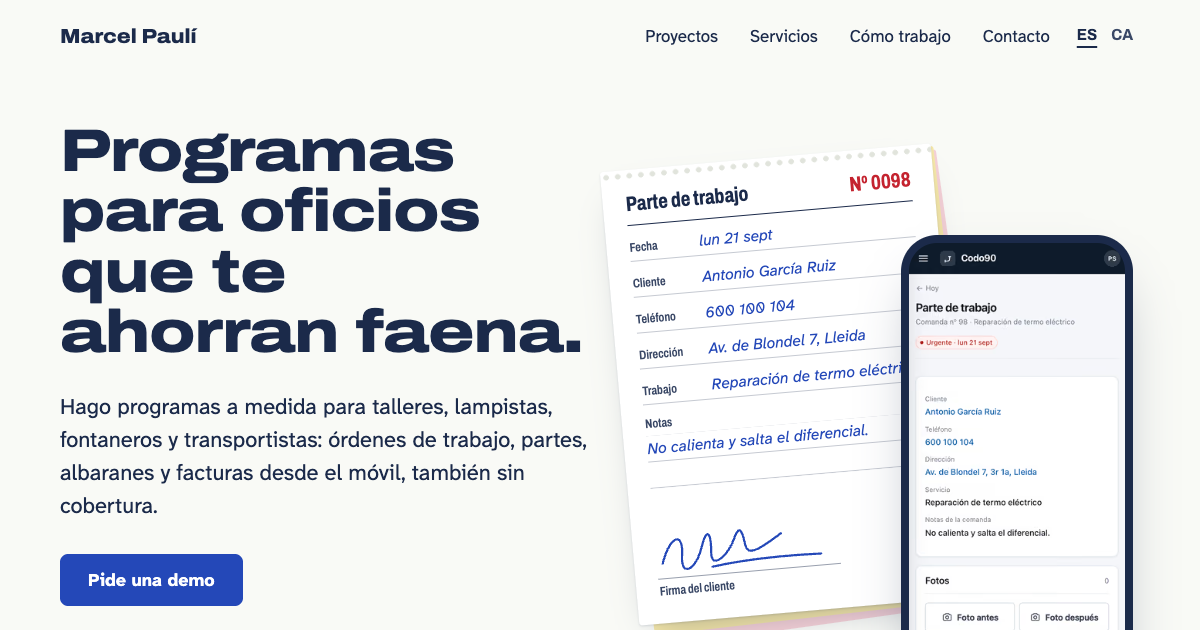
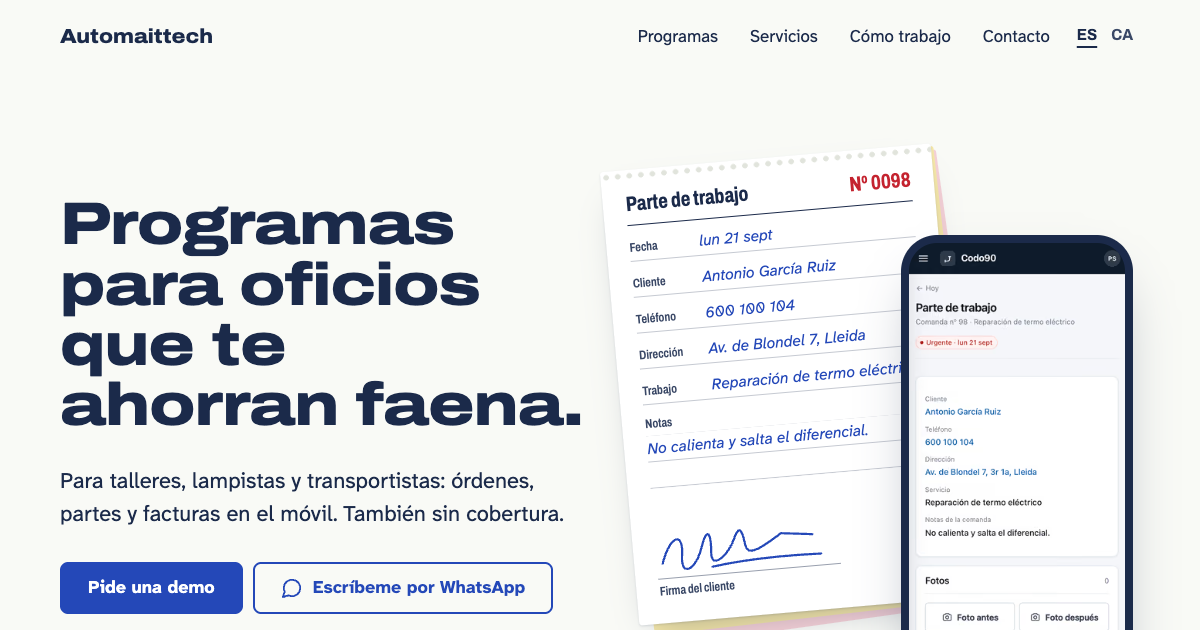
Automaittech como marca, dominio real para Google y sitemap
- La web apuntaba a localhost en la canónica, el og:image y los
  hreflang: ahora usa https://www.automaittech.com.
- robots.txt y sitemap.xml con las dos páginas (es y ca).
- Automaittech en el logo, el título y el pie en vez del nombre, y
  la imagen para compartir rehecha con la portada actual.
- El programa de talleres se llama SportMotor, como en su folleto.

diff --git a/src/textos.ts b/src/textos.ts
@@ -6,7 +6,7 @@ export const WHATSAPP = '34634276385';
 
 const es = {
   meta: {
-    title: 'Programas para oficios: talleres, lampistas y transportistas | Marcel Paulí',
+    title: 'Programas para oficios: talleres, lampistas y transportistas | Automaittech',
     description:
       'Programas a medida para talleres, lampistas, fontaneros y transportistas de Catalunya. Órdenes, partes, albaranes y facturas desde el móvil, también sin cobertura.',
   },
@@ -102,13 +102,13 @@ const es = {
   },
   pie: {
     lema: 'Programas a medida para talleres, lampistas, fontaneros y transportistas.',
-    derechos: '© 2026 Marcel Paulí',
+    derechos: '© 2026 Automaittech',
   },
 };
 
 const ca: typeof es = {
   meta: {
-    title: 'Programes per a oficis: tallers, lampistes i transportistes | Marcel Paulí',
+    title: 'Programes per a oficis: tallers, lampistes i transportistes | Automaittech',
     description:
       'Programes a mida per a tallers, lampistes, fontaners i transportistes de Catalunya. Ordres, parts, albarans i factures des del mòbil, també sense cobertura.',
   },
@@ -204,7 +204,7 @@ const ca: typeof es = {
   },
   pie: {
     lema: 'Programes a mida per a tallers, lampistes, fontaners i transportistes.',
-    derechos: '© 2026 Marcel Paulí',
+    derechos: '© 2026 Automaittech',
   },
 };
 

diff --git a/src/programas.ts b/src/programas.ts
@@ -22,7 +22,7 @@ const es: Programa[] = [
   {
     id: 'talleres',
     tab: 'Talleres',
-    nombre: 'MotorSport19',
+    nombre: 'SportMotor',
     para: 'Talleres de coches, motos y furgonetas',
     lema: 'Todo tu taller, en un solo programa.',
     datos: ['Ordenador, tablet y móvil', 'Sigue sin internet', 'Registro de jornada', 'Facturas con QR'],
@@ -105,7 +105,7 @@ const ca: Programa[] = [
   {
     id: 'talleres',
     tab: 'Tallers',
-    nombre: 'MotorSport19',
+    nombre: 'SportMotor',
     para: 'Tallers de cotxes, motos i furgonetes',
     lema: 'Tot el teu taller, en un sol programa.',
     datos: ['Ordinador, tauleta i mòbil', 'Funciona sense internet', 'Registre de jornada', 'Factures amb QR'],

diff --git a/README.md b/README.md
@@ -1,6 +1,6 @@
 # Programas para oficios
 
-Web de Marcel Paulí: programas a medida para talleres, lampistas, fontaneros y transportistas. En castellano (`/`) y catalán (`/ca/`).
+Web de Automaittech: programas a medida para talleres, lampistas, fontaneros y transportistas. En castellano (`/`) y catalán (`/ca/`).
 
 Hecha con **Astro** (sale estática) y **GSAP** con ScrollTrigger para el movimiento. No lleva nada más.
 
